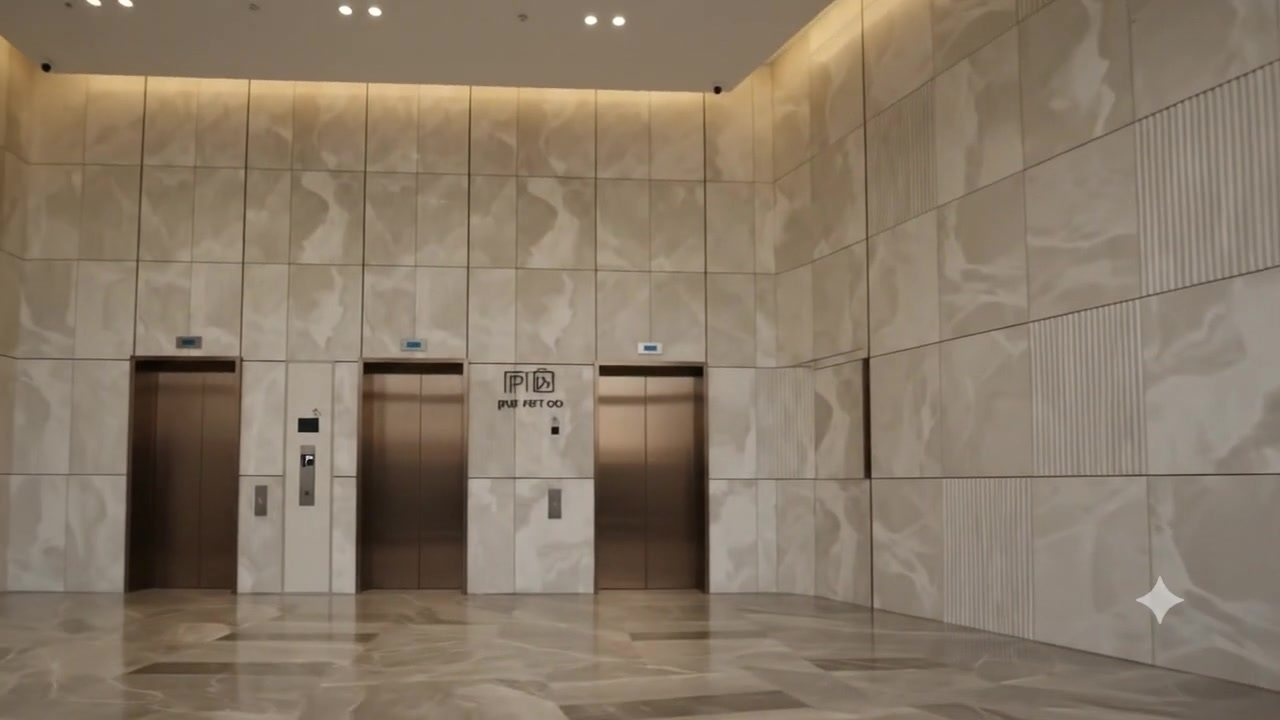
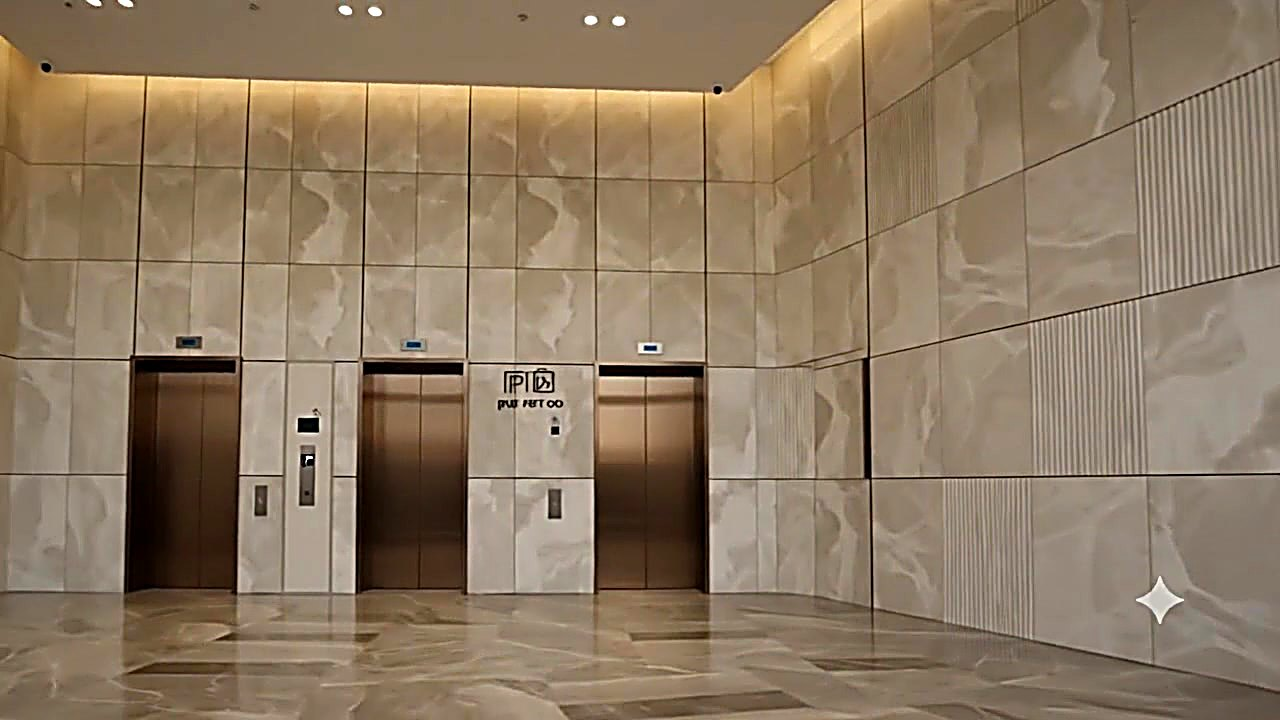
Cinema intro: clearer scene-3 entrance, sharper wow lobby, more breathing room
- Swap the entrance still to the straight-on glass doors (clear view into the
  lobby) and hold each shot fully so no caption lands on a 50% dissolve
- Sharpen + grade both lobby stills (UnsharpMask, richer contrast/colour) for
  a stronger wow on the final lobby reveal, with a slow push-in
- Loosen timing back to 4.5 screens and align cross-fades to chapter
  boundaries so each transition is felt

diff --git a/index.html b/index.html
@@ -648,11 +648,11 @@
   var entrance=document.getElementById('cinoEntrance');
   var lobbyImg=document.getElementById('cinoLobbyImg');
   var SCENES=chapters.length;            // 5 scenes
-  var SCREENS=3.5;                       // total scroll length, in viewport-heights (tight scrub)
-  /* per-chapter scroll boundaries (fractions of total). The exterior chapters
-     are brief; the back half cross-fades through the glass entrance into the
-     real lobby footage and holds on the "welcome home" moment. */
-  var STOPS=[0, 0.10, 0.22, 0.36, 0.50, 1.0];
+  var SCREENS=4.5;                       // total scroll length, in viewport-heights (room to feel each beat)
+  /* per-chapter scroll boundaries (fractions of total). Each chapter holds one
+     clear, resolved image; the cross-fades happen across the boundaries so the
+     transitions are felt and never land mid-dissolve on a caption. */
+  var STOPS=[0, 0.14, 0.30, 0.50, 0.68, 1.0];
 
   /* gate the loader on the two building images */
   var need=2, ready=0;
@@ -699,22 +699,25 @@
     sun.style.background='radial-gradient(circle,rgba('+sclr[0]+','+sclr[1]+','+sclr[2]+',.95) 0%,rgba('+sclr[0]+','+sclr[1]+','+sclr[2]+',.45) 26%,rgba('+sclr[0]+','+sclr[1]+','+sclr[2]+',0) 62%)';
     stars.style.opacity=starOp;
     /* approach: nudge the exterior in, then cross-fade through the glass
-       entrance into the real lobby footage. */
-    var ap=smooth(0.06,0.30,p);
-    var panX=lerp(-52,-32,smooth(0,0.30,p));
-    var scale=1+ap*0.55;                          // gentle push toward the glass before the handoff
+       entrance into the real lobby footage. Each shot holds fully before the
+       next dissolve begins, so no caption lands on a muddy 50% blend. */
+    var ap=smooth(0.06,0.34,p);
+    var panX=lerp(-52,-30,smooth(0,0.34,p));
+    var scale=1+ap*0.42;                          // gentle push toward the glass before the handoff
     bld.style.transform='translateX('+panX+'%) scale('+scale+')';
-    bld.style.opacity=1-smooth(0.22,0.34,p);
+    bld.style.opacity=1-smooth(0.26,0.40,p);      // exterior holds, then fades by the entrance
     /* building windows light up toward evening before we step inside */
-    bldNight.style.opacity=smooth(0.10,0.30,p);
-    /* glass entrance fades in and holds, then hands off to the lobby interior */
-    var entOut=smooth(0.42,0.52,p);
-    if(entrance){ entrance.style.opacity=smooth(0.22,0.32,p)*(1-entOut);
-      entrance.style.transform='scale('+(1.05+0.12*smooth(0.22,0.52,p)).toFixed(4)+')'; }
-    if(lobbyImg){ lobbyImg.style.opacity=smooth(0.42,0.54,p);
-      lobbyImg.style.transform='scale('+(1.04+0.14*smooth(0.46,1,p)).toFixed(4)+')'; }
+    bldNight.style.opacity=smooth(0.10,0.28,p);
+    /* glass entrance: fade in across the ch1→ch2 boundary, hold clear through
+       ch2, then hand off to the lobby across the ch3 boundary */
+    var entOut=smooth(0.54,0.66,p);
+    if(entrance){ entrance.style.opacity=smooth(0.28,0.40,p)*(1-entOut);
+      entrance.style.transform='scale('+(1.05+0.12*smooth(0.28,0.66,p)).toFixed(4)+')'; }
+    /* lobby interior: holds clear through ch4 with a slow push-in for the wow */
+    if(lobbyImg){ lobbyImg.style.opacity=smooth(0.54,0.66,p);
+      lobbyImg.style.transform='scale('+(1.05+0.16*smooth(0.58,1,p)).toFixed(4)+')'; }
     /* legibility scrim + vignette bloom once we're inside */
-    if(lobby) lobby.style.opacity=smooth(0.40,0.60,p);
+    if(lobby) lobby.style.opacity=smooth(0.44,0.66,p);
     /* captions POP in: only the active chapter is "live" */
     var active=i;
     if(active!==activeScene){